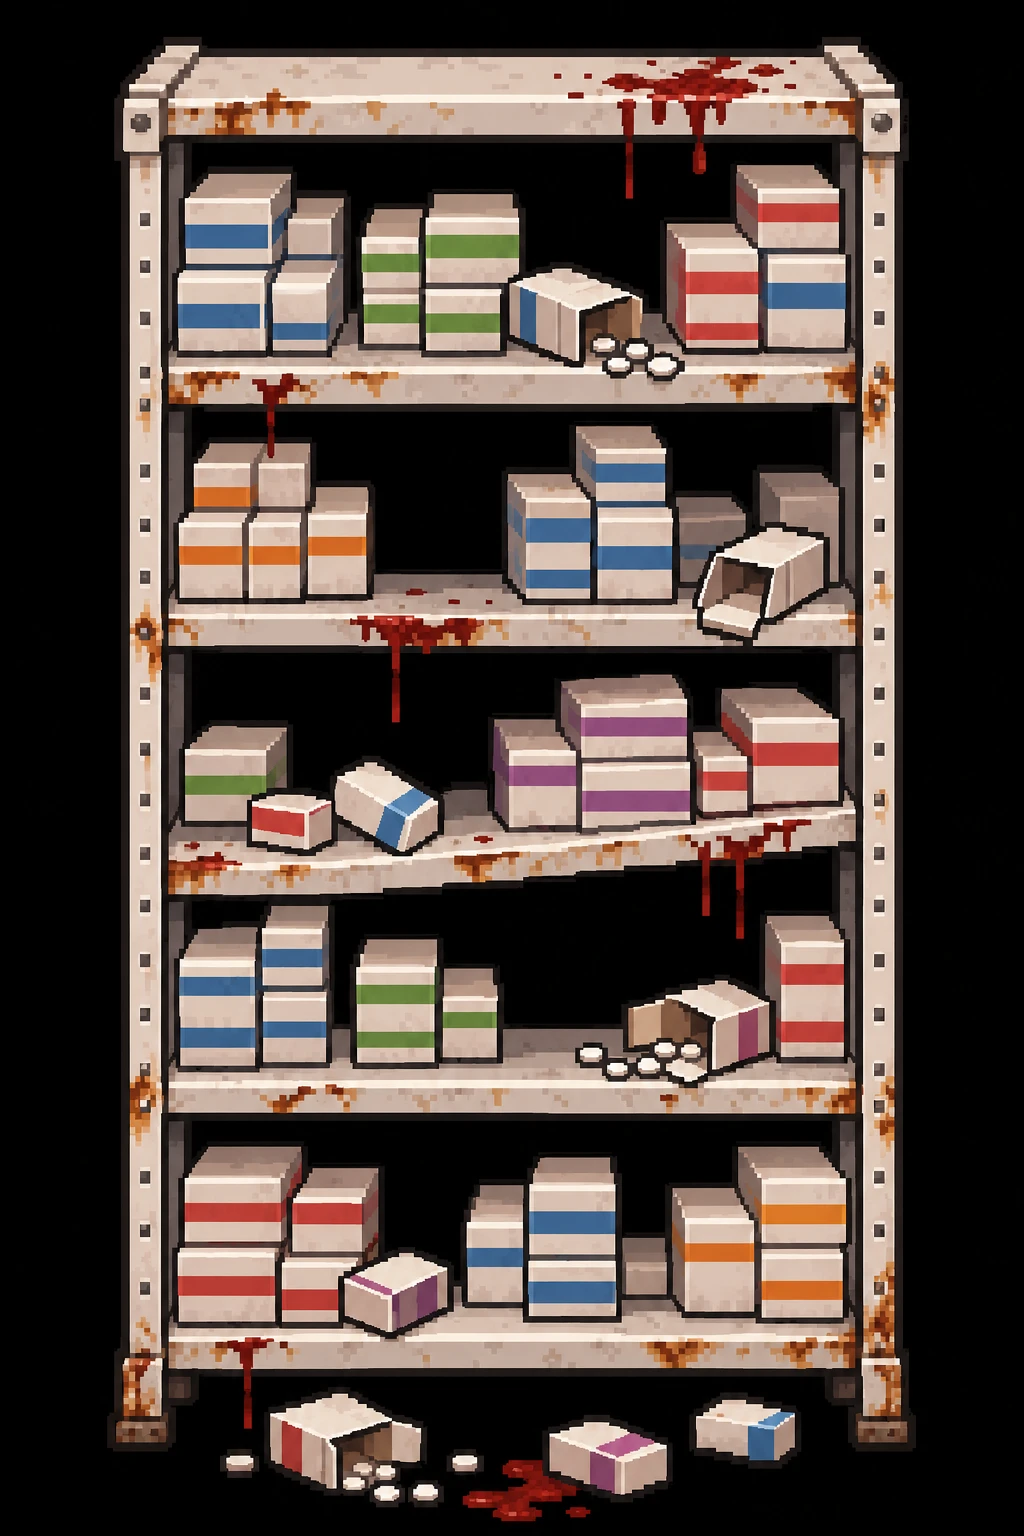
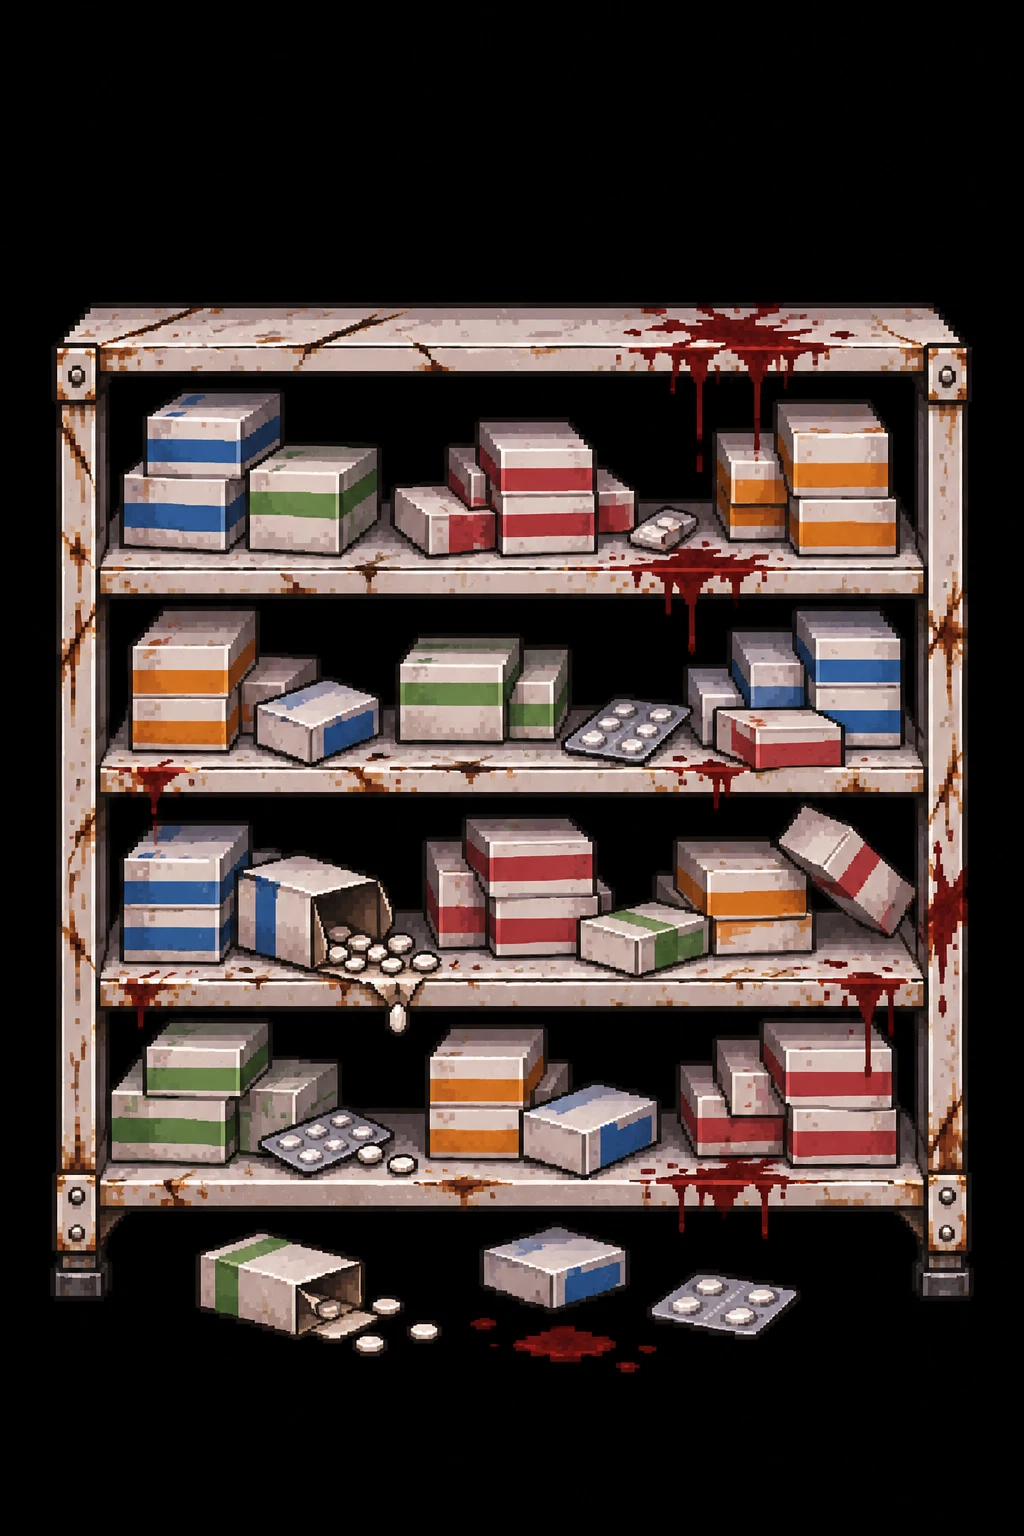
Farmacia: estanterías del almacén más bajas (ya no se salen de la pared), dos distintas de GPT alternadas

diff --git a/tools/muebles_farmacia_gpt.py b/tools/muebles_farmacia_gpt.py
@@ -14,7 +14,9 @@
 #   mesa-cosmetica-gpt       -> farmacosmetica, una mesa isla de madera con cremas y champús
 #   sillas-espera-gpt        -> farmasillas, una bancada de tres sillas de espera naranjas
 #   garrafa-agua-gpt         -> farmagarrafa, una fuente de agua de garrafa
-#   estanteria-almacen-farmacia-gpt  -> farmabalda1, la estantería de metal del almacén, con cajitas de medicinas
+#   estanteria-almacen-farmacia-gpt  -> farmabalda1, la estantería de metal del almacén, con cajitas de medicinas (rehecha el 24 nov:
+#     la primera, de cinco baldas, se salía por encima de la pared)
+#   estanteria-almacen-farmacia2-gpt -> farmabalda2, la de material de curas (gasas, vendas, guantes y sueros), de metal gris
 #   robot-farmacia-gpt       -> farmarobot, el robot dispensador de la rebotica
 #   robot-farmacia2-gpt .. 4  -> farmarobot2..4, otros tres: con el brazo arriba y la pantalla rota, con la puerta abierta y el
 #     brazo caído, y apagado y quemado por dentro
@@ -39,19 +41,22 @@ MUEBLES = [("mostrador-farmacia-gpt", "farmamostrador", 164), ("mostrador-farmac
            ("vitrina-farmacia-gpt", "farmavitrina", 150), ("expositor-torre-gpt", "farmatorre", 64),
            ("expositor-cepillos-gpt", "farmacepillos", 52), ("mesa-cosmetica-gpt", "farmacosmetica", 130),
            ("sillas-espera-gpt", "farmasillas", 110), ("garrafa-agua-gpt", "farmagarrafa", 32),
-           ("estanteria-almacen-farmacia-gpt", "farmabalda1", 88), ("robot-farmacia-gpt", "farmarobot", 150),
+           ("estanteria-almacen-farmacia-gpt", "farmabalda1", 88), ("estanteria-almacen-farmacia2-gpt", "farmabalda2", 88), ("robot-farmacia-gpt", "farmarobot", 150),
            ("robot-farmacia2-gpt", "farmarobot2", 150), ("robot-farmacia3-gpt", "farmarobot3", 150), ("robot-farmacia4-gpt", "farmarobot4", 150),
            ("mesa-laboratorio-gpt", "farmaisla1", 160), ("mesa-laboratorio2-gpt", "farmaisla2", 160),
            ("taburete-laboratorio-gpt", "farmataburete", 30), ("mesa-acero-gpt", "farmaacero", 136),
            ("carro-acero-gpt", "farmacarro", 56), ("contenedor-residuos-gpt", "farmaresiduos", 48)]
 # los que llevan huecos cerrados de negro puro que han de verse transparentes (entre las baldas de la estantería del almacén): se
 # quitan los de más de HUECO_MIN píxeles de GPT (los pequeños son sombras del dibujo)
-CON_HUECOS = {"farmabalda1", "farmaisla1", "farmaisla2", "farmataburete", "farmacarro"}   # y entre la encimera y el estante, las patas, las baldas
+CON_HUECOS = {"farmabalda1", "farmabalda2", "farmaisla1", "farmaisla2", "farmataburete", "farmacarro"}   # y entre la encimera y el estante, las patas, las baldas
 HUECO_MIN = 1000
+# lo más altos que pueden ser (las estanterías del almacén, contra la pared de arriba: lo que pase de lo que miden las de la
+# ferretería, 136, se sale por encima de la pared)
+ALTO_MAX = {"farmabalda1": 136, "farmabalda2": 136}
 # lo grande que es cada píxel del dibujo (como los muebles de la tienda de ropa: 2, el mismo detalle que el resto del juego)
 PIXEL = 2
 # los de cosas pequeñas (cajitas, botes, cepillos), que con PIXEL 2 se emborronan, con el doble de detalle (un píxel por unidad)
-FINOS = {"farmagondola1", "farmagondola2", "farmagondola3", "farmavitrina", "farmavitrina2", "farmatorre", "farmacepillos", "farmacosmetica", "farmabalda1", "farmarobot", "farmarobot2", "farmarobot3", "farmarobot4",
+FINOS = {"farmagondola1", "farmagondola2", "farmagondola3", "farmavitrina", "farmavitrina2", "farmatorre", "farmacepillos", "farmacosmetica", "farmabalda1", "farmabalda2", "farmarobot", "farmarobot2", "farmarobot3", "farmarobot4",
          "farmaisla1", "farmaisla2", "farmataburete", "farmaacero", "farmacarro", "farmaresiduos"}
 
 
@@ -109,6 +114,8 @@ for origen, tipo, largo in MUEBLES:
         im = quitar_huecos(im)
     im = im.crop(im.getbbox())
     alto = round(largo * im.height / im.width)
+    if tipo in ALTO_MAX and alto > ALTO_MAX[tipo]:   # más alta de la cuenta: se estrecha para que quepa
+        largo, alto = round(largo * ALTO_MAX[tipo] / alto), ALTO_MAX[tipo]
     pixel = 1 if tipo in FINOS else PIXEL
     peq = (round(largo / pixel), round(alto / pixel))
     s = im.convert("RGBa").resize(peq, Image.LANCZOS).convert("RGBA")

diff --git a/docs/CODIGO.md b/docs/CODIGO.md
@@ -1148,7 +1148,7 @@ en una línea.
   (`farmacarro`) a su izquierda; todo por encima de la fila 9, porque la pared de abajo tapa lo que queda detrás. (El taburete,
   `farmataburete`, está hecho pero el dueño lo quitó.)
   `--rodear-muebles --tipo farmacia --uso rebotica` comprueba los muebles de la rebotica en vez de los de la sala de venta. La prueba `--tiendas-fijas` saca también la rebotica y el taller
-  (`captura-fija-<tipo>-<lado>-rebotica.png`, `-taller`). En el almacén, la estantería de farmacia (`farmabalda1`, en los sitios de las de la ropa) y, hasta que se hagan las suyas, las
+  (`captura-fija-<tipo>-<lado>-rebotica.png`, `-taller`). En el almacén, las estanterías de farmacia (`farmabalda1`, de cajitas de medicinas, y `farmabalda2`, de material de curas, alternadas en los sitios de las de la ropa; el 24 nov, rehechas más bajas: la primera se salía por encima de la pared, y `muebles_farmacia_gpt.py` les pone un tope de alto, `ALTO_MAX`, 136 como las de la ferretería) y, hasta que se hagan las suyas, las
   cajas y la carretilla de la ropa. Prueba: `--tiendas-fijas --tipo farmacia` y `--rodear-muebles --tipo farmacia`.
 - **La puerta de la ferretería** (17 nov, el dueño): de cristal, de una sola hoja (de GPT, `assets/sources/centro/puerta-ferreteria-gpt.webp`), con un
   cartel «OPEN» verde colgado por detrás del cristal (`cartel-open-gpt.webp`). `muebles_gpt.py puerta_ferreteria cartel_open` las reduce y
